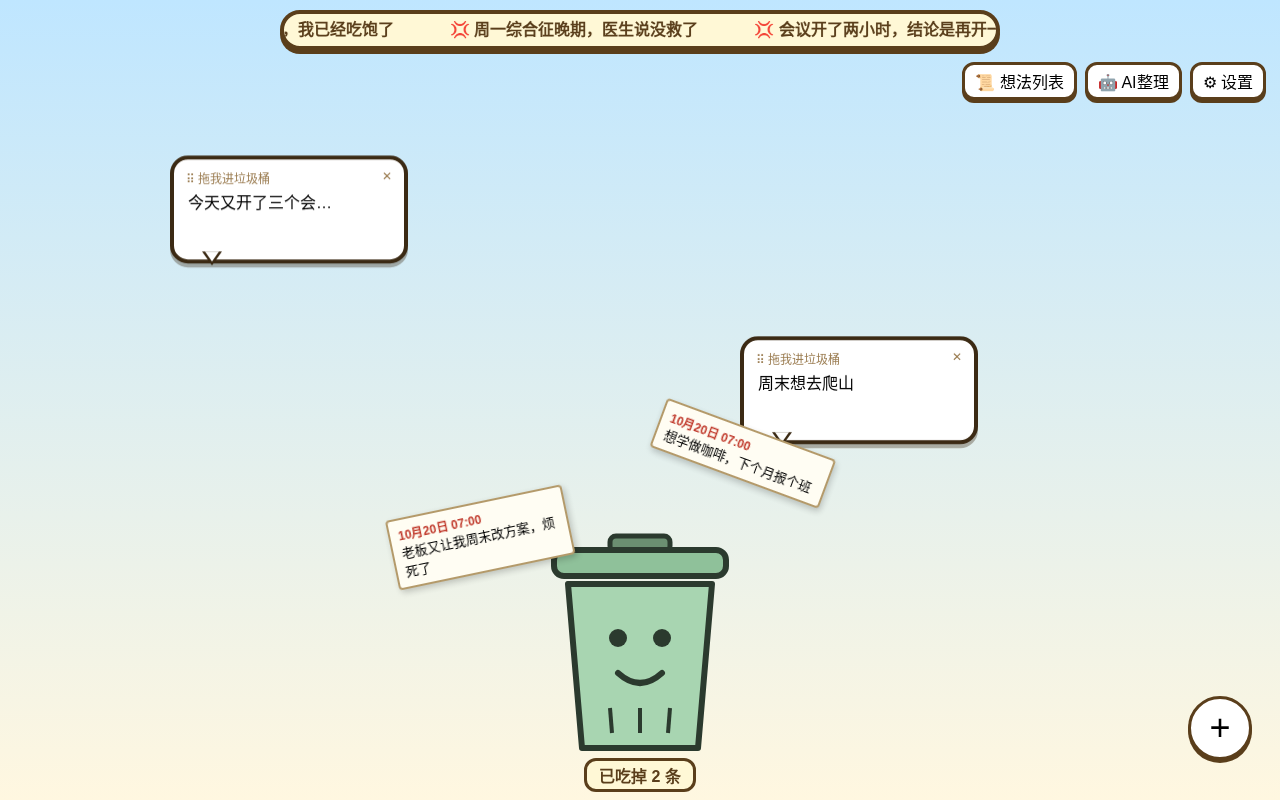
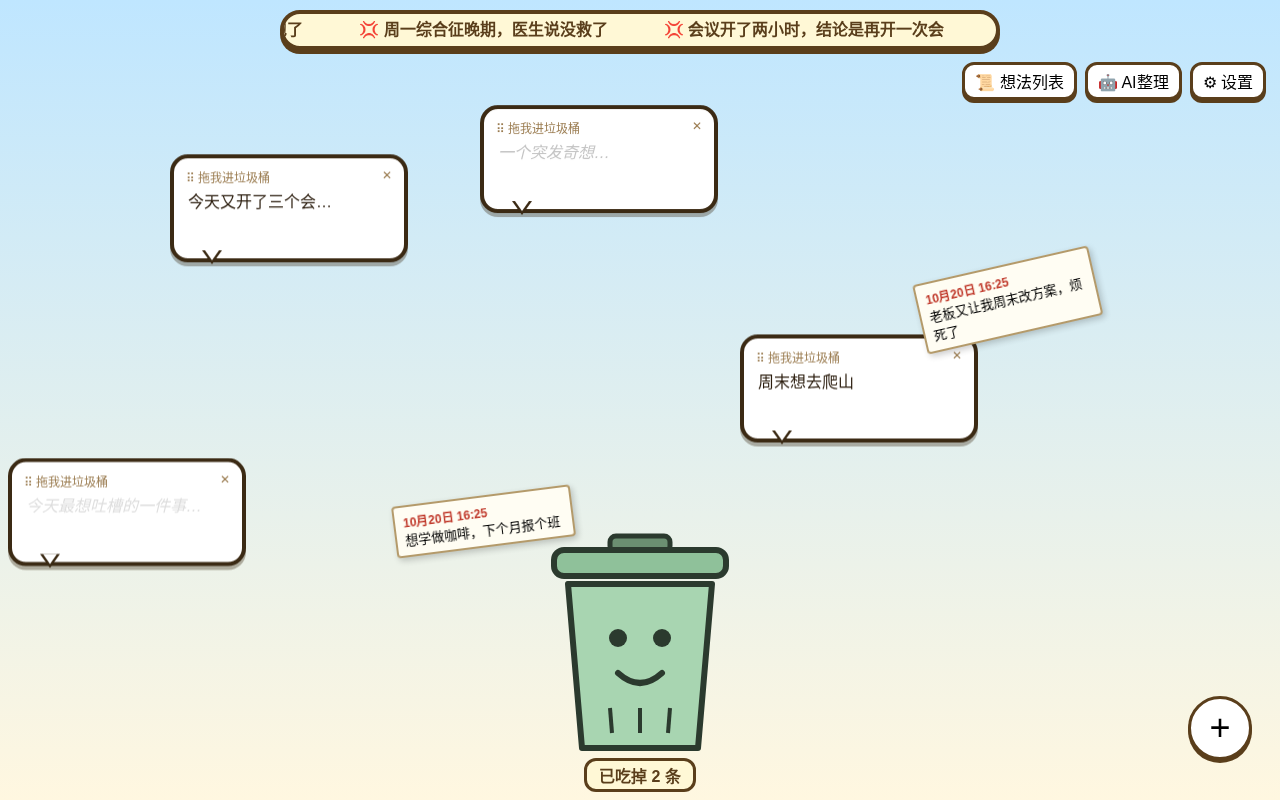
对话框淡色提示语、空对话框弹回不保存，更新测试与截图

diff --git a/js/bubbles.js b/js/bubbles.js
@@ -1,5 +1,7 @@
 // 冒险岛风格漂浮对话框：可输入、可拖动，拖进垃圾桶就保存
-const PROMPTS = ['今天想吐槽点啥？', '脑子里乱糟糟的，写下来吧…', '心里话放这儿', '一个突发奇想…'];
+// 空对话框里的淡色提示语（只是 placeholder，永远不会被保存）
+export const HINTS = ['想到啥写啥…', '吐个槽吧…', '心里话放这里…', '老板今天又说啥了？', '脑子里乱糟糟的，倒出来吧…', '一个突发奇想…', '今天最想吐槽的一件事…', '偷偷写，桶不会说出去的～'];
+let hintIdx = Math.floor(Math.random() * HINTS.length);
 let opts;
 export function initBubbles(stage, o) {
   opts = o; // { isOverTrash(x,y), onHover(bool), onDrop(bubbleEl, text) }
@@ -14,7 +16,7 @@ export function createBubble(x, y) {
   b.style.left = x + 'px'; b.style.top = y + 'px';
   b.style.animationDelay = (-Math.random() * 3).toFixed(2) + 's';
   b.innerHTML = `<div class="grip"><span>⠿ 拖我进垃圾桶</span><span class="close" title="不要了">✕</span></div>
-    <textarea placeholder="${PROMPTS[Math.floor(Math.random() * PROMPTS.length)]}"></textarea>`;
+    <textarea placeholder="${HINTS[hintIdx++ % HINTS.length]}"></textarea>`;
   stage.appendChild(b);
   b.querySelector('.close').addEventListener('click', e => { e.stopPropagation(); b.remove(); });
   b.addEventListener('pointerdown', e => startDrag(e, b));
@@ -24,6 +26,7 @@ export function createBubble(x, y) {
 function startDrag(e, b) {
   if (e.target.tagName === 'TEXTAREA' || e.target.classList.contains('close')) return;
   e.preventDefault();
+  const startL = b.style.left, startT = b.style.top;
   const r = b.getBoundingClientRect(), dx = e.clientX - r.left, dy = e.clientY - r.top;
   b.classList.add('dragging'); b.setPointerCapture?.(e.pointerId);
   const move = ev => {
@@ -33,7 +36,17 @@ function startDrag(e, b) {
   const up = ev => {
     b.removeEventListener('pointermove', move); b.removeEventListener('pointerup', up);
     b.classList.remove('dragging'); opts.onHover(false);
-    if (opts.isOverTrash(ev.clientX, ev.clientY)) opts.onDrop(b, b.querySelector('textarea').value.trim());
+    if (!opts.isOverTrash(ev.clientX, ev.clientY)) return;
+    const text = b.querySelector('textarea').value.trim(); // 只取用户输入，提示语不在 value 里
+    if (text) return opts.onDrop(b, text);
+    bounceBack(b, startL, startT); opts.onEmpty?.();
   };
   b.addEventListener('pointermove', move); b.addEventListener('pointerup', up);
+}
+
+// 空对话框被拖进桶：轻轻弹回原位
+function bounceBack(b, left, top) {
+  b.classList.add('bounce');
+  b.style.left = left; b.style.top = top;
+  setTimeout(() => b.classList.remove('bounce'), 600);
 }

diff --git a/js/main.js b/js/main.js
@@ -14,8 +14,8 @@ initBanner($('#banner'));
 trash.initTrash({ onBurst: async () => explode(await store.listNotes(), trash.trashCenter()) });
 initBubbles($('#stage'), {
   isOverTrash: trash.isOverTrash, onHover: trash.setHover,
+  onEmpty: () => toast('空的对话框，桶不吃哦～先写点什么吧'),
   onDrop: async (b, text) => {
-    if (!text) { toast('空的对话框，桶不吃哦～'); return; }
     b.remove(); trash.chew();
     try { const n = await store.saveNote(text); trash.increment(); toast(n.inFolder ? '嚼嚼嚼…已存进文件夹 📁' : '嚼嚼嚼…已存在浏览器里'); refreshPanel(); }
     catch (e) { console.error(e); toast('保存失败：' + e.message); }

diff --git a/css/style.css b/css/style.css
@@ -42,3 +42,8 @@ button:active{transform:translateY(2px);box-shadow:0 1px 0 #5a3e1b}
 pre.result{white-space:pre-wrap;background:#fff;border:2px solid #ddd;padding:8px;border-radius:8px}
 #toast{position:fixed;left:50%;top:110px;transform:translateX(-50%);background:#3b2a14;color:#fff;padding:6px 14px;border-radius:12px;opacity:0;transition:opacity .3s;z-index:60;pointer-events:none}
 #toast.show{opacity:1}
+
+.bubble textarea{color:#2b1d0e}
+.bubble textarea::placeholder{color:#9e9e9e;opacity:.6;font-style:italic}
+.bubble textarea:focus::placeholder{opacity:.35}
+.bubble.bounce{transition:left .5s cubic-bezier(.34,1.56,.64,1),top .5s cubic-bezier(.34,1.56,.64,1)}

diff --git a/tests/smoke_test.py b/tests/smoke_test.py
@@ -17,11 +17,20 @@ with sync_playwright() as p:
         pg.mouse.move(g['x'] + 20, g['y'] + 7); pg.mouse.down()
         pg.mouse.move(t['x'] + t['width'] / 2, t['y'] + t['height'] / 2, steps=15); pg.mouse.up()
         pg.wait_for_timeout(400)
+    # 空对话框：显示提示语、value 为空、拖进桶不保存并弹回
+    ph = pg.locator('.bubble textarea').first.get_attribute('placeholder')
+    assert ph and pg.locator('.bubble textarea').first.input_value() == ''
+    drop(''); pg.wait_for_timeout(400)
+    assert pg.text_content('#count') == '0' and pg.locator('.bubble').count() == 2
+    bb = pg.locator('.bubble').first.bounding_box(); t0 = pg.locator('#trash').bounding_box()
+    assert bb['y'] + bb['height'] < t0['y'], '空对话框应弹回'
+    print('空对话框提示语/不保存/弹回 OK:', ph)
+    assert pg.get_attribute('#btn-add', 'title') == '新建对话框'
     drop('老板又让我周末改方案，烦死了'); drop('想学做咖啡，下个月报个班')
     assert pg.text_content('#count') == '2', pg.text_content('#count')
     n = pg.evaluate("""() => new Promise(r => { const q = indexedDB.open('thought-trash-bin'); q.onsuccess = () => {
         const g = q.result.transaction('notes').objectStore('notes').getAll(); g.onsuccess = () => r(g.result); }; })""")
-    assert len(n) == 2 and any('咖啡' in x['text'] for x in n), n
+    assert len(n) == 2 and all(x['text'] not in ('', ph) for x in n) and any('咖啡' in x['text'] for x in n), n
     print('IndexedDB 保存 OK:', [x['text'] for x in n])
     for _ in range(5): pg.click('#trash', delay=10)
     pg.wait_for_timeout(1300)
@@ -30,7 +39,7 @@ with sync_playwright() as p:
     pg.locator('.scrap').evaluate_all('s => s.forEach(x => x.remove())')
     pg.dblclick('#trash'); pg.wait_for_timeout(1300)
     assert pg.locator('.scrap').count() == 2; print('双击爆炸 OK')
-    pg.mouse.click(250, 200); pg.keyboard.type('今天又开了三个会…'); pg.mouse.click(820, 380); pg.keyboard.type('周末想去爬山')
+    pg.mouse.click(250, 200); pg.keyboard.type('今天又开了三个会…'); pg.mouse.click(820, 380); pg.keyboard.type('周末想去爬山'); pg.mouse.click(560, 150); pg.mouse.click(5, 790)
     pg.wait_for_timeout(300)
     pg.screenshot(path=os.path.join(ROOT, 'docs', 'screenshot.png'))
     pg.click('#btn-list'); pg.fill('#search', '咖啡'); assert pg.locator('.note-item').count() == 1; print('搜索 OK')
